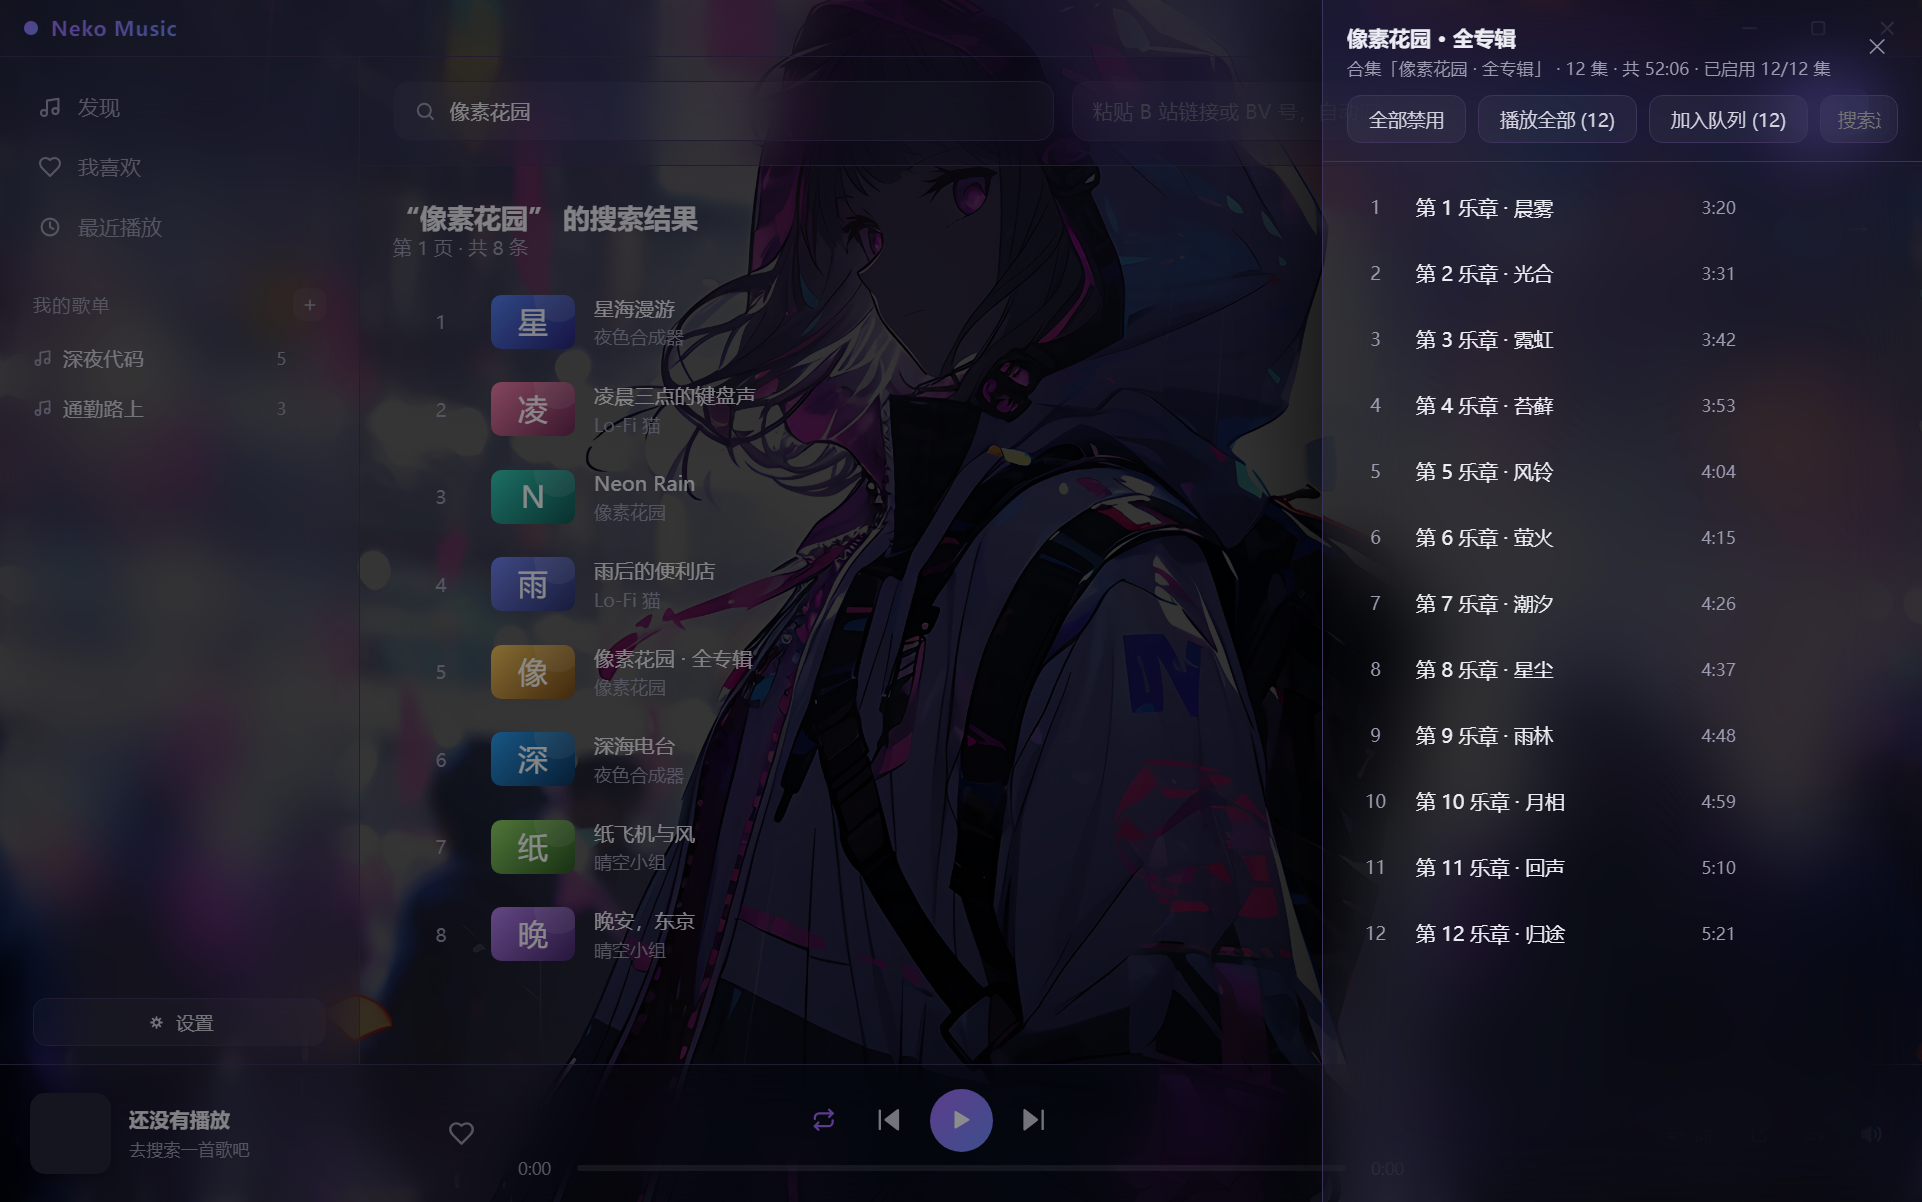
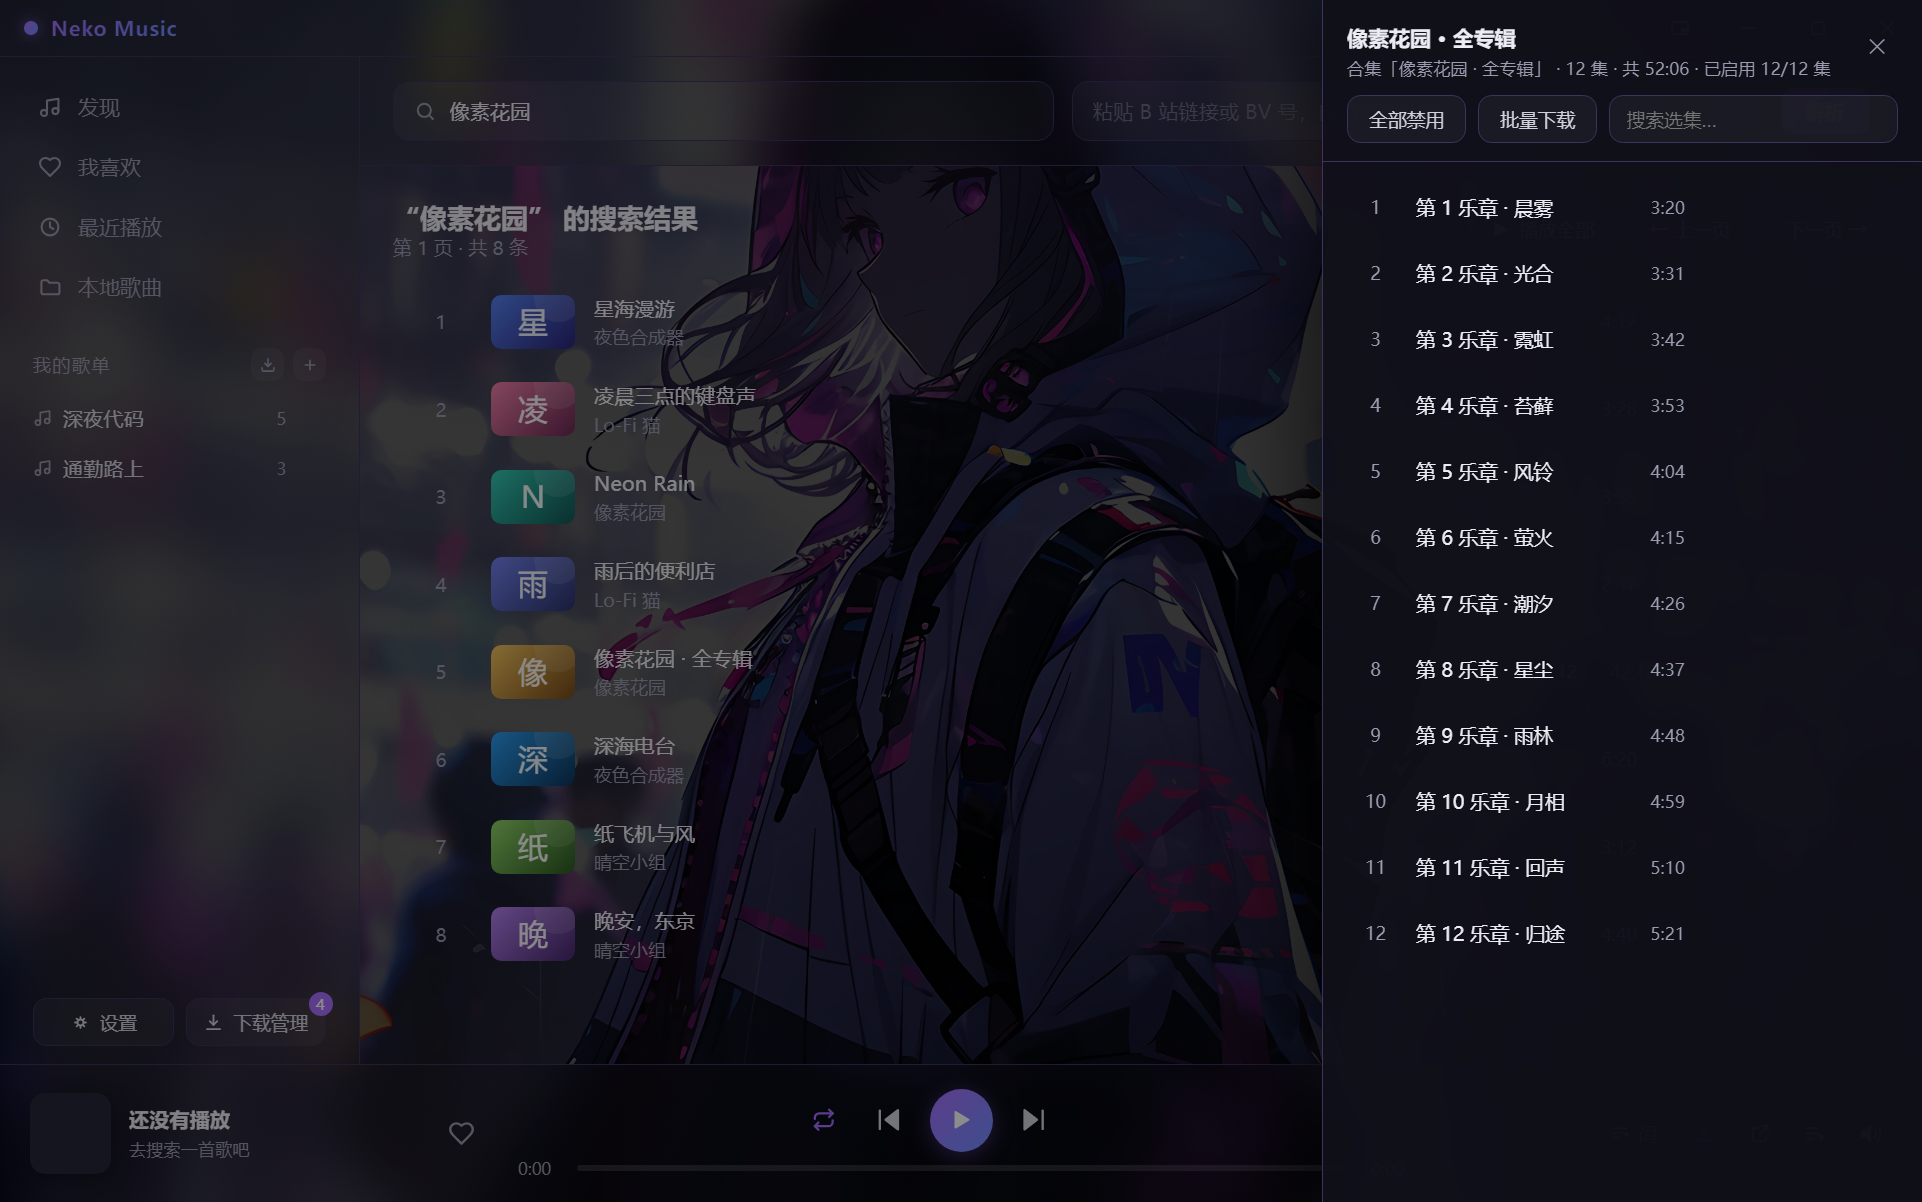
docs(v2.8.1 修订): 主页加下载管理 / 本地歌曲截图 + 更新「下载与安装」说明
做了什么：
- .verify/shot-readme.js 扩到 7 张：
  · 原本 4 张（hero/collect/lyric/settings）重截
  · 新增 3 张：downloads（下载管理，覆盖五种任务状态）、
             local（本地歌曲页：左栏分组 + 批量选择按钮）、
             local-pick（勾选态：3 行已勾 + 工具条全亮）
- 演示数据扩展：FAKE_DB.local 加 8 条虚构本地记录（覆盖「本地下载 / 2 个导入文件夹 / 导入的歌曲」四种来源），
  DEMO_TASKS 8 条覆盖 downloading/paused/queued/done/failed 五种状态，文件路径全部虚构（C:/演示音乐/... / D:/演示音乐/...）
- 隐私修一处：原脚本把"C:/Users/Dico/Pictures/新建文件夹/【哲风壁纸】动漫人物-动漫壁纸.png"
  写死成了"找不到时的主用兜底"，仓库里不应有任何私人绝对路径。
  改成：① 环境变量 NEKO_DEMO_WALLPAPER 优先；② 找 Pictures / OneDrive\Pictures 里 ≥60KB 的图
  （小于 60KB 多半是图标/缩略图，拿来当壁纸是空白一片）；③ 都没有就用斜向渐变 + 两团柔光的兜底
  （纯 Node 手搓 PNG 编码，不引依赖），比纯竖条好看。

- README.md：
  · 「界面预览」顶部增加「本地歌曲（分文件夹 + 批量选择）」与「下载管理」两段，
    配截图 + 重点说明（点整行=勾选 / 全选只作用于当前分组 / 移出库不删磁盘文件 等）
  · 「下载与安装」段落从「目前还没有打包好的安装包」改为指向 Releases/lastest 的正式安装包
    并说明 SmartScreen 提示是正常现象（没做代码签名是自建 Electron 应用的常态）

验证：verify 59 大类 / check-readme / check-icons 38 项 全部通过；7 张截图无页面报错。

diff --git a/.verify/shot-readme.js b/.verify/shot-readme.js
@@ -28,24 +28,68 @@ protocol.registerSchemesAsPrivileged([{ scheme: 'bg', privileges: { standard: tr
 // ⚠ registerBgProtocol 必须在 app ready 之后调用（它要拿默认 session）
 const { registerBgProtocol } = require(path.join(ROOT, 'src', 'bg-protocol.js'));
 
-/* 演示壁纸来源：优先用本机这张（可用 NEKO_DEMO_WALLPAPER 覆盖）；
-   找不到就自己生成一张渐变，保证脚本在别的机器上也能跑。 */
-const WALLPAPER_SRC = process.env.NEKO_DEMO_WALLPAPER
-  || 'C:\\Users\\Dico\\Pictures\\新建文件夹\\【哲风壁纸】动漫人物-动漫壁纸.png';
+/* 演示壁纸来源（按优先级找）：
+   ① 环境变量 NEKO_DEMO_WALLPAPER 指定的文件；
+   ② 系统「图片」目录里第一张图片（自动找，避免在仓库里写死任何私人路径）；
+   ③ 都没有 → 自己生成一张渐变兜底，保证脚本在任何机器上都能跑。
+   ★ 隐私红线：绝不在源码里写死本机私人路径。 */
+function findWallpaper() {
+  if (process.env.NEKO_DEMO_WALLPAPER && fs.existsSync(process.env.NEKO_DEMO_WALLPAPER)) {
+    return process.env.NEKO_DEMO_WALLPAPER;
+  }
+  const guesses = [
+    path.join(os.homedir(), 'Pictures'),
+    path.join(os.homedir(), 'OneDrive', 'Pictures'),
+  ];
+  const exts = new Set(['.png', '.jpg', '.jpeg', '.webp', '.bmp']);
+  for (const dir of guesses) {
+    try {
+      if (!fs.existsSync(dir)) continue;
+      /* 只要**看着像壁纸**的：小于 60KB 的多半是图标 / 缩略图 / 空白测试图，
+         拿它当壁纸截出来是一片纯色，反而更难看 —— 宁可走渐变兜底。 */
+      const hit = fs.readdirSync(dir)
+        .filter((f) => exts.has(path.extname(f).toLowerCase()))
+        .map((f) => ({ f, size: fs.statSync(path.join(dir, f)).size }))
+        .filter((x) => x.size >= 60 * 1024)
+        .sort((a, b) => b.size - a.size)[0];
+      if (hit) return path.join(dir, hit.f);
+    } catch { /* 读不到就跳过 */ }
+  }
+  return null;
+}
+const WALLPAPER_SRC = findWallpaper();
 
-/* 极简 PNG 编码（竖向渐变，纯 Node，不引依赖）—— 只在没找到壁纸时兜底 */
+/* 极简 PNG 编码（纯 Node，不引依赖）—— 只在没找到壁纸时兜底。
+   画的是「斜向渐变 + 两团柔光」，比纯竖条更像一张真壁纸（截出来不呆板）。 */
 function gradientPng(w, h, top, bottom) {
   const zlib = require('zlib');
   const raw = Buffer.alloc((w * 4 + 1) * h);
+  // 两团柔光的中心与半径（左上偏中、右下偏中）
+  const glows = [
+    { cx: w * 0.28, cy: h * 0.22, r: Math.max(w, h) * 0.55, c: [255, 138, 176], a: 0.30 },
+    { cx: w * 0.78, cy: h * 0.80, r: Math.max(w, h) * 0.60, c: [55, 214, 192], a: 0.22 },
+  ];
   for (let y = 0; y < h; y++) {
     const k = y / (h - 1);
     const off = y * (w * 4 + 1);
     raw[off] = 0;
     for (let x = 0; x < w; x++) {
       const p = off + 1 + x * 4;
-      raw[p] = Math.round(top[0] + (bottom[0] - top[0]) * k);
-      raw[p + 1] = Math.round(top[1] + (bottom[1] - top[1]) * k);
-      raw[p + 2] = Math.round(top[2] + (bottom[2] - top[2]) * k);
+      // 斜向渐变：竖向为主，横向再叠一点，避免"一条一条"的观感
+      const diag = k * 0.82 + (x / (w - 1)) * 0.18;
+      let r = top[0] + (bottom[0] - top[0]) * diag;
+      let g = top[1] + (bottom[1] - top[1]) * diag;
+      let b = top[2] + (bottom[2] - top[2]) * diag;
+      for (const gl of glows) {
+        const d = Math.sqrt((x - gl.cx) ** 2 + (y - gl.cy) ** 2) / gl.r;
+        const f = Math.max(0, 1 - d) ** 2 * gl.a;   // 平方衰减，边缘更柔
+        r += (gl.c[0] - r) * f;
+        g += (gl.c[1] - g) * f;
+        b += (gl.c[2] - b) * f;
+      }
+      raw[p] = Math.round(r);
+      raw[p + 1] = Math.round(g);
+      raw[p + 2] = Math.round(b);
       raw[p + 3] = 255;
     }
   }
@@ -135,6 +179,21 @@ const FAKE_DB = {
   favorites: ['BV1Neko00001', 'BV1Neko00003', 'BV1Neko00006', 'BV1Neko00008'].map(track),
   history: ['BV1Neko00008', 'BV1Neko00006', 'BV1Neko00005', 'BV1Neko00004', 'BV1Neko00003', 'BV1Neko00002', 'BV1Neko00001', 'BV1Neko00007'].map(track),
   lastTrack: null,
+  /* 本地歌曲库：全是虚构路径（D:\演示音乐 / E:\我的歌单…），绝不指向真实文件 */
+  local: [
+    // ① 下载目录里下好的两首（src=download）
+    { id: 'l1', path: 'C:\\演示音乐\\NekoMusic\\星海漫游.m4a', title: '星海漫游', author: '夜色合成器', cover: DEMO[0].cover, duration: 252, size: 8400000, key: 'BV1Neko00001:101', bvid: 'BV1Neko00001', cid: 101, src: 'download', folderRoot: null, addedAt: 1 },
+    { id: 'l2', path: 'C:\\演示音乐\\NekoMusic\\Neon Rain.m4a', title: 'Neon Rain', author: '像素花园', cover: DEMO[2].cover, duration: 235, size: 7800000, key: 'BV1Neko00003:103', bvid: 'BV1Neko00003', cid: 103, src: 'download', folderRoot: null, addedAt: 2 },
+    // ② 手动导入的一整个文件夹「专辑A」（含子目录，证明按"导入时选的根"归组而不是从路径反推）
+    { id: 'l3', path: 'D:\\演示音乐\\专辑A\\雨后的便利店.m4a', title: '雨后的便利店', author: 'Lo-Fi 猫', cover: DEMO[3].cover, duration: 167, size: 5200000, key: '', bvid: null, cid: null, src: 'folder', folderRoot: 'D:\\演示音乐\\专辑A', addedAt: 3 },
+    { id: 'l4', path: 'D:\\演示音乐\\专辑A\\深海电台.flac', title: '深海电台', author: '夜色合成器', cover: DEMO[5].cover, duration: 380, size: 41000000, key: '', bvid: null, cid: null, src: 'folder', folderRoot: 'D:\\演示音乐\\专辑A', addedAt: 4 },
+    { id: 'l5', path: 'D:\\演示音乐\\专辑A\\2019 旧作\\纸飞机与风.mp3', title: '纸飞机与风', author: '晴空小组', cover: DEMO[6].cover, duration: 192, size: 6100000, key: '', bvid: null, cid: null, src: 'folder', folderRoot: 'D:\\演示音乐\\专辑A', addedAt: 5 },
+    // ③ 另一个文件夹「我的歌单」
+    { id: 'l6', path: 'E:\\我的歌单\\晚安，东京.mp3', title: '晚安，东京', author: '晴空小组', cover: DEMO[7].cover, duration: 280, size: 8900000, key: '', bvid: null, cid: null, src: 'folder', folderRoot: 'E:\\我的歌单', addedAt: 6 },
+    { id: 'l7', path: 'E:\\我的歌单\\凌晨三点的键盘声.m4a', title: '凌晨三点的键盘声', author: 'Lo-Fi 猫', cover: DEMO[1].cover, duration: 208, size: 6600000, key: '', bvid: null, cid: null, src: 'folder', folderRoot: 'E:\\我的歌单', addedAt: 7 },
+    // ④ 单曲导入的（src=file，归到「导入的歌曲」）
+    { id: 'l8', path: 'D:\\下载\\随手存的单曲.mp3', title: '随手存的单曲', author: '', cover: '', duration: 0, size: 4100000, key: '', bvid: null, cid: null, src: 'file', folderRoot: null, addedAt: 8 },
+  ],
   settings: {
     theme: 'violet',
     volume: 80,
@@ -146,6 +205,38 @@ const FAKE_DB = {
   },
   collectParts: {},
 };
+
+/* 虚构下载任务（覆盖五种状态，好让「下载管理」页每一类都有内容可看） */
+const DEMO_DL_DIR = 'C:\\演示音乐\\NekoMusic';
+const DEMO_TASKS = [
+  { id: 'd1', bvid: 'BV1Neko00006', cid: 106, title: '深海电台', author: '夜色合成器', cover: DEMO[5].cover,
+    file: '深海电台.m4a', status: 'downloading', received: 5242880, total: 9437184, speed: 1258291, error: '' },
+  { id: 'd2', bvid: 'BV1Neko00007', cid: 107, title: '纸飞机与风', author: '晴空小组', cover: DEMO[6].cover,
+    file: '纸飞机与风.m4a', status: 'downloading', received: 1258291, total: 6291456, speed: 786432, error: '' },
+  { id: 'd3', bvid: 'BV1Neko00004', cid: 104, title: '雨后的便利店', author: 'Lo-Fi 猫', cover: DEMO[3].cover,
+    file: '雨后的便利店.m4a', status: 'paused', received: 3145728, total: 5242880, speed: 0, error: '' },
+  { id: 'd4', bvid: 'BV1Neko00002', cid: 102, title: '凌晨三点的键盘声', author: 'Lo-Fi 猫', cover: DEMO[1].cover,
+    file: '凌晨三点的键盘声.m4a', status: 'queued', received: 0, total: 6815744, speed: 0, error: '' },
+  { id: 'd5', bvid: 'BV1Neko00001', cid: 101, title: '星海漫游', author: '夜色合成器', cover: DEMO[0].cover,
+    file: '星海漫游.m4a', status: 'done', received: 8388608, total: 8388608, speed: 0, error: '' },
+  { id: 'd6', bvid: 'BV1Neko00008', cid: 108, title: '晚安，东京', author: '晴空小组', cover: DEMO[7].cover,
+    file: '晚安，东京.m4a', status: 'done', received: 9175040, total: 9175040, speed: 0, error: '' },
+  { id: 'd7', bvid: 'BV1Neko00003', cid: 103, title: 'Neon Rain', author: '像素花园', cover: DEMO[2].cover,
+    file: 'Neon Rain.m4a', status: 'done', received: 7864320, total: 7864320, speed: 0, error: '' },
+  { id: 'd8', bvid: 'BV1Neko00005', cid: 105, title: '像素花园 · 全专辑', author: '像素花园', cover: DEMO[4].cover,
+    file: '像素花园-全专辑.m4a', status: 'failed', received: 2936012, total: 42362470, speed: 0, error: '连接被重置，点重试再试一次' },
+];
+function demoDlStats(tasks) {
+  const st = { done: 0, running: 0, failed: 0, queued: 0, paused: 0, bytes: 0, total: tasks.length };
+  for (const t of tasks) {
+    if (t.status === 'done') { st.done++; st.bytes += t.received || 0; }
+    else if (t.status === 'downloading') { st.running++; st.bytes += t.received || 0; }
+    else if (t.status === 'queued') st.queued++;
+    else if (t.status === 'paused') { st.paused++; st.bytes += t.received || 0; }
+    else if (t.status === 'failed') st.failed++;
+  }
+  return st;
+}
 
 let lastSaved = JSON.parse(JSON.stringify(FAKE_DB));
 
@@ -171,6 +262,26 @@ ipcMain.handle('bili:videoInfo', (_e, bvid) => {
 ipcMain.handle('bili:upVideos', () => ({ ok: true, data: { list: DEMO.slice(0, 4).map((t) => ({ ...t })), hasMore: false } }));
 ipcMain.handle('bg:pick', () => ({ ok: true, data: { file: DEMO_BG, kind: 'image', sizeMB: 0.3 } }));
 ipcMain.handle('bg:clear', () => ({ ok: true, data: true }));
+
+/* ---------- 下载 / 本地歌曲 两组 IPC 的打桩（让「下载管理」「本地歌曲」两页能出图） ---------- */
+ipcMain.handle('download:list', () => ({ ok: true, data: { tasks: DEMO_TASKS, stats: demoDlStats(DEMO_TASKS), dir: DEMO_DL_DIR } }));
+ipcMain.handle('download:add', () => ({ ok: true, data: { added: 0, skipped: 0, duplicates: 0, needDir: false } }));
+['pause', 'resume', 'retry', 'cancel'].forEach((op) => ipcMain.handle('download:' + op, () => ({ ok: true, data: true })));
+ipcMain.handle('download:remove', () => ({ ok: true, data: true }));
+ipcMain.handle('download:clearFinished', () => ({ ok: true, data: true }));
+ipcMain.handle('download:pickDir', () => ({ ok: true, data: { dir: DEMO_DL_DIR } }));
+ipcMain.handle('download:setDir', () => ({ ok: true, data: true }));
+ipcMain.handle('download:openDir', () => ({ ok: true, data: true }));
+ipcMain.handle('download:reveal', () => ({ ok: true, data: true }));
+ipcMain.handle('local:pickFiles', () => ({ ok: true, data: { paths: [] } }));
+ipcMain.handle('local:pickFolder', () => ({ ok: true, data: { root: null, paths: [], truncated: false } }));
+ipcMain.handle('local:stat', (_e, paths) => ({ ok: true, data: (paths || []).map((p) => ({ path: p, exists: true, size: 0 })) }));
+ipcMain.on('win-min', () => {});
+ipcMain.on('win-max', () => {});
+ipcMain.on('win-close', () => {});
+ipcMain.on('win:close-ready', () => {});
+ipcMain.on('win:fullscreen', () => {});
+ipcMain.on('win:mini', () => {});
 
 app.whenReady().then(async () => {
   registerBgProtocol(BG_DIR);
@@ -285,9 +396,53 @@ app.whenReady().then(async () => {
 
   /* ---------- 4) 设置面板（动态背景） ---------- */
   say('\n[4] 动态背景设置面板');
-  await evalJS(`(() => { toggleLyrics(false); openSettings(); return true; })()`);
+  await evalJS(`(() => { toggleLyrics(false); closeSettings(); return true; })()`);
+  await sleep(200);
+  await evalJS(`(() => { openSettings(); return true; })()`);
   await sleep(900);
   await shoot('settings.png');
+  await evalJS(`(() => { closeSettings(); return true; })()`);
+  await sleep(300);
+
+  /* ---------- 5) 下载管理页（v2.8.0） ---------- */
+  say('\n[5] 下载管理页');
+  await evalJS(`(async () => {
+    currentView = 'downloads'; dlFilter = 'all';
+    await refreshDownloads();
+    renderAll();
+    return true; })()`);
+  await sleep(900);
+  await shoot('downloads.png');
+
+  /* ---------- 6) 本地歌曲页：左栏文件夹列表（v2.8.1） ---------- */
+  say('\n[6] 本地歌曲页（左栏分组）');
+  await evalJS(`(async () => {
+    currentView = 'local'; localFilter = 'all'; localPick = null;
+    renderAll();
+    return true; })()`);
+  await sleep(900);
+  await shoot('local.png');
+
+  /* ---------- 7) 本地歌曲页：批量选择态（v2.8.1） ---------- */
+  say('\n[7] 本地歌曲页（批量选择）');
+  await evalJS(`(async () => {
+    document.getElementById('btnLocalPick').click();
+    return true; })()`);
+  await sleep(400);
+  /* 勾三首（点整行 = 勾选）。
+     ★ 每次点完界面会重画，之前抓到的 DOM 节点就失效了 ——
+       必须**一次只点一个、点完重新抓**，不能先抓三个节点再连着点（那样只有第一下算数）。 */
+  for (const idx of [0, 2, 4]) {
+    await evalJS(`(() => {
+      const rows = document.querySelectorAll('#content .track');
+      if (rows[${idx}]) rows[${idx}].click();
+      return true; })()`);
+    await sleep(220);
+  }
+  await sleep(400);
+  const pickedN = await evalJS(`(localPick && localPick.selected ? localPick.selected.size : -1)`);
+  say('  已勾 ' + pickedN + ' 首');
+  await shoot('local-pick.png');
 
   if (errors.length) say('\n页面报错：\n  ' + errors.slice(0, 8).join('\n  '));
   else say('\n页面无报错');

diff --git a/README.md b/README.md
@@ -66,8 +66,31 @@
 
 ## 界面预览
 
-> 下面几张都是**实机截图**。最上面那张大图是 **发现页**（启动默认停在这里）—— 用 B 站「歌曲」「音乐」两个关键词搜索、去重后随机挑 8~12 个视频推荐给你，点「随机换一批」重新抽。
-> 界面长什么样取决于你选了什么背景，我这几张用的是自己的壁纸。
+> 下面几张都是**实机截图**。最上面那张大图是 **发现页**（启动默认停在这里）—— 用 B 站「歌曲」「音乐」两个关键词搜索、去重后随机挑 8~10 个视频推荐给你，点「随机换一批」重新抽。
+> 界面长什么样取决于你选了什么背景 —— 这几张统一用同一张壁纸截的，方便对照。
+> 歌名 / UP 主 / 收藏夹 / 文件路径**全部是虚构的演示数据**，不掺任何真实信息。
+
+### 本地歌曲（分文件夹 + 批量选择）
+
+<img src="docs/images/local.png" alt="本地歌曲页：左栏文件夹列表，右栏曲目列表 + 「批量选择」按钮" width="880">
+
+**左栏**按「来源」分组：**全部歌曲** / **本地下载** / 每个导入的文件夹 / **导入的歌曲**，每组带数量，点一下只看那一组。
+**右栏**是这一组的歌，右上角「批量选择」。
+
+<img src="docs/images/local-pick.png" alt="批量选择态：每行带勾选框，顶部工具条「已选 N 首 / 全选 / 清空选择 / 收藏 / 加入歌单 / 移出库」" width="880">
+
+点「批量选择」进入勾选态：**点整行就能勾**（热区大），顶部工具条实时显示已选多少首，
+可以 **全选 / 清空选择**，再一次性 **收藏 / 加入歌单 / 移出库**。
+**全选只作用于当前分组**，换分组或离开这一页会自动退出勾选 —— 不会带着一屏勾选框跑到别处。
+
+### 下载管理
+
+<img src="docs/images/downloads.png" alt="下载管理页：任务列表带进度条与速度，顶部统计，四个筛选标签，暂停/继续/重试/取消" width="880">
+
+每条任务一行：**正在下**的显示进度条 + 百分比 + 实时速度，**已暂停**显示停在哪，
+**已完成**的可直接播放 / 打开所在位置，**失败**的写明原因并可重试。
+顶部一行统计「已完成 · 下载中 · 失败 · 共占用」，四个标签（全部 / 下载中 / 已完成 / 失败）按状态筛；
+还有「全部暂停」「重试失败项」「清空已完成」「全部删除」。
 
 ### 合集「选集」面板
 
@@ -125,14 +148,16 @@
 
 ## 下载与安装
 
-**目前还没有打包好的安装包**，两条路：
+**① 直接装（最省事）** —— 去 [Releases](https://github.com/xingkinglb/neko-music/releases/latest) 页
+下载 **`NekoMusic.Setup.<版本号>.exe`**（约 82 MB），双击一路下一步就行。
+装完开始菜单和桌面都有快捷方式，卸载也在「设置 → 应用」里正常走。
 
-**① 用源码跑起来（推荐，最省事）** —— 看下面的 [快速上手](#快速上手)。
+> 首次启动若被 Windows SmartScreen 拦了一次，点「仍要运行」即可 ——
+> 安装包没有做代码签名（签名证书要花钱），这是自建 Electron 应用的正常现象。
 
-**② 自己打一个安装包** —— 看 [从源码构建](#从源码构建) 里的 `npm run build`。
+**② 用源码跑起来** —— 想改代码、追新提交的话走这条路，见下面的 [快速上手](#快速上手)。
 
-> 打好包之后会挂到 [Releases](https://github.com/xingkinglb/neko-music/releases) 页，
-> 到时候就能直接下载双击安装了。现在那一页放的是各版本的源码快照。
+**③ 自己打一个安装包** —— 见 [从源码构建](#从源码构建) 里的 `npm run build`。
 
 ## 快速上手
 
